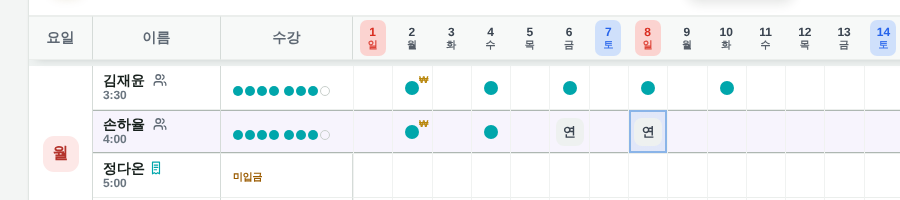
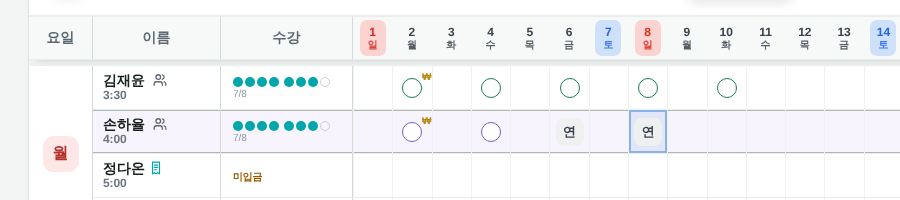
v0.111.7 수납 안내·수강생대장에서도 형제는 형제 합계로 보이게
Claude-Session: https://claude.ai/code/session_014d9zEvtY8svh7Lt1eQQH6C

diff --git a/design/attendance.html b/design/attendance.html
@@ -246,7 +246,7 @@ html.bwp section[aria-label="출석부"] [style*="dashed"]{border-color:#000!imp
     <sc-for list="{{sheetTabs}}" as="t" hint-placeholder-count="5">
       <button type="button" class="{{t.cls}}" draggable="true" onDragStart="{{t.dragStart}}" onDragOver="{{t.dragOver}}" onDragLeave="{{t.dragLeave}}" onDrop="{{t.drop}}" onDragEnd="{{t.dragEnd}}" onClick="{{t.pick}}" onContextMenu="{{t.ctx}}" aria-pressed="{{t.on}}" style="{{t.style}}"><span style="{{t.dot}}"></span>{{t.name}}</button>
     </sc-for>
-    <span style="margin-left: auto; flex: none; align-self: center; padding: 0 4px 0 16px; font-size: 11px; color: #8A949E; white-space: nowrap">v0.111.6</span>
+    <span style="margin-left: auto; flex: none; align-self: center; padding: 0 4px 0 16px; font-size: 11px; color: #8A949E; white-space: nowrap">v0.111.7</span>
   </nav>
   <sc-if value="{{th.open}}" hint-placeholder-val="{{ false }}">
     <div class="noprint" onMouseDown="{{th.close}}" style="position: fixed; inset: 0; z-index: 70; background: rgba(23, 32, 28, 0.28)"></div>
@@ -3902,8 +3902,9 @@ class Component extends DCLogic {
         const pool0 = sm ? null : this.sibPool(nm, calcOf(mm), baseAll);
         const dueNow = !sm && s0.dbStatus !== 'rest' && s0.dbStatus !== 'out' && (pool0 ? pool0.due && (this.sibGroups().find(g => g.indexOf(nm) >= 0) || [nm])[0] === nm : ((x.paid && x.used >= x.T && !qn) || (!x.paid && !(x.newReg && x.used === 0))));
         tks[nm] = { due: dueNow, stKind: sm && stx ? stx.kind : '', stDate: sm && stx ? String(stx.date || '') : '', stAt: sm && stx ? (stx.at || 0) : 0, cyc: String(x.payDate == null ? '' : x.payDate), teacher: s0.teacher || '', days: baseAll.filter(z => (z.sid || z.id) === (s0.sid || s0.id)).map(z => z.g), left: x.paid ? Math.max(0, x.T - x.used) + x.queue.reduce((n, c) => n + c, 0) : 0, n: !x.paid && !(x.newReg && x.used === 0) ? x.used : 0, diffLeft: Math.max(0, (x.diffDue || 0) - (x.diffPaid || 0)), unit: (s0.reg != null && this.unitOn(s0, tdy)) || (proT ? 62500 : 40000), pro: proT, rid: s0.id, sm: sm, text: doneOut ? '수업완료' : text, line: doneOut ? '수업완료' : v.subParts.map(p => p.t).join('') + (v.lateLine ? ' · ' + v.lateLine : ''),
-          dotLines: v.dotLines.map(l => ({ groups: l.groups.map(g => ({ dots: g.dots.map(d => ({ style: d.style, bw: d.bw || '' })) })) })),
-          subParts: doneOut ? [{ t: '수업완료', style: 'color: #007E82; font-weight: 600' }] : v.subParts, lateLine: v.lateLine, queueTxt: v.queueTxt };
+          dotLines: (pool0 ? pool0.lines : v.dotLines).map(l => ({ groups: l.groups.map(g => ({ dots: g.dots.map(d => ({ style: d.style, bw: d.bw || '' })) })) })),
+          // 형제 묶음 원생은 수납 안내·수강생대장에도 형제 합계 동그라미 + '5/8'
+          subParts: pool0 ? [{ t: Math.min(pool0.fill, pool0.cap) + '/' + pool0.cap, style: 'color: #8A949E' }] : doneOut ? [{ t: '수업완료', style: 'color: #007E82; font-weight: 600' }] : v.subParts, lateLine: pool0 ? '' : v.lateLine, queueTxt: pool0 ? '' : v.queueTxt };
       });
       const js = JSON.stringify(tks);
       if (js !== this._tkSnap) { this._tkSnap = js; localStorage.setItem('academy.tickets', js); }

diff --git a/design/src/attendance.dc.html b/design/src/attendance.dc.html
@@ -240,7 +240,7 @@ html.bwp section[aria-label="출석부"] [style*="dashed"]{border-color:#000!imp
     <sc-for list="{{sheetTabs}}" as="t" hint-placeholder-count="5">
       <button type="button" class="{{t.cls}}" draggable="true" onDragStart="{{t.dragStart}}" onDragOver="{{t.dragOver}}" onDragLeave="{{t.dragLeave}}" onDrop="{{t.drop}}" onDragEnd="{{t.dragEnd}}" onClick="{{t.pick}}" onContextMenu="{{t.ctx}}" aria-pressed="{{t.on}}" style="{{t.style}}"><span style="{{t.dot}}"></span>{{t.name}}</button>
     </sc-for>
-    <span style="margin-left: auto; flex: none; align-self: center; padding: 0 4px 0 16px; font-size: 11px; color: #8A949E; white-space: nowrap">v0.111.6</span>
+    <span style="margin-left: auto; flex: none; align-self: center; padding: 0 4px 0 16px; font-size: 11px; color: #8A949E; white-space: nowrap">v0.111.7</span>
   </nav>
   <sc-if value="{{th.open}}" hint-placeholder-val="{{ false }}">
     <div class="noprint" onMouseDown="{{th.close}}" style="position: fixed; inset: 0; z-index: 70; background: rgba(23, 32, 28, 0.28)"></div>
@@ -3894,8 +3894,9 @@ class Component extends DCLogic {
         const pool0 = sm ? null : this.sibPool(nm, calcOf(mm), baseAll);
         const dueNow = !sm && s0.dbStatus !== 'rest' && s0.dbStatus !== 'out' && (pool0 ? pool0.due && (this.sibGroups().find(g => g.indexOf(nm) >= 0) || [nm])[0] === nm : ((x.paid && x.used >= x.T && !qn) || (!x.paid && !(x.newReg && x.used === 0))));
         tks[nm] = { due: dueNow, stKind: sm && stx ? stx.kind : '', stDate: sm && stx ? String(stx.date || '') : '', stAt: sm && stx ? (stx.at || 0) : 0, cyc: String(x.payDate == null ? '' : x.payDate), teacher: s0.teacher || '', days: baseAll.filter(z => (z.sid || z.id) === (s0.sid || s0.id)).map(z => z.g), left: x.paid ? Math.max(0, x.T - x.used) + x.queue.reduce((n, c) => n + c, 0) : 0, n: !x.paid && !(x.newReg && x.used === 0) ? x.used : 0, diffLeft: Math.max(0, (x.diffDue || 0) - (x.diffPaid || 0)), unit: (s0.reg != null && this.unitOn(s0, tdy)) || (proT ? 62500 : 40000), pro: proT, rid: s0.id, sm: sm, text: doneOut ? '수업완료' : text, line: doneOut ? '수업완료' : v.subParts.map(p => p.t).join('') + (v.lateLine ? ' · ' + v.lateLine : ''),
-          dotLines: v.dotLines.map(l => ({ groups: l.groups.map(g => ({ dots: g.dots.map(d => ({ style: d.style, bw: d.bw || '' })) })) })),
-          subParts: doneOut ? [{ t: '수업완료', style: 'color: #007E82; font-weight: 600' }] : v.subParts, lateLine: v.lateLine, queueTxt: v.queueTxt };
+          dotLines: (pool0 ? pool0.lines : v.dotLines).map(l => ({ groups: l.groups.map(g => ({ dots: g.dots.map(d => ({ style: d.style, bw: d.bw || '' })) })) })),
+          // 형제 묶음 원생은 수납 안내·수강생대장에도 형제 합계 동그라미 + '5/8'
+          subParts: pool0 ? [{ t: Math.min(pool0.fill, pool0.cap) + '/' + pool0.cap, style: 'color: #8A949E' }] : doneOut ? [{ t: '수업완료', style: 'color: #007E82; font-weight: 600' }] : v.subParts, lateLine: pool0 ? '' : v.lateLine, queueTxt: pool0 ? '' : v.queueTxt };
       });
       const js = JSON.stringify(tks);
       if (js !== this._tkSnap) { this._tkSnap = js; localStorage.setItem('academy.tickets', js); }

diff --git a/design/src/students.dc.html b/design/src/students.dc.html
@@ -169,7 +169,7 @@ html.bwp .printonly .pcell,html.bwp .printonly .phead{border-color:#000!importan
     </div>
   </main>
 
-  <div style="display: flex; justify-content: flex-end; padding: 8px 16px; border-top: 1px solid #DDE2DF; background: #FFFFFF; font-size: 11px; color: #8A949E">v0.111.6</div>
+  <div style="display: flex; justify-content: flex-end; padding: 8px 16px; border-top: 1px solid #DDE2DF; background: #FFFFFF; font-size: 11px; color: #8A949E">v0.111.7</div>
   <sc-if value="{{colsCfg.isOpen}}" hint-placeholder-val="{{ false }}">
     <div onMouseDown="{{colsCfg.close}}" style="position: fixed; inset: 0; z-index: 40; background: rgba(23, 32, 28, 0.32)"></div>
     <div role="dialog" aria-label="설정" onKeyDown="{{colsCfg.key}}" tabIndex="-1" id="cfgDlg" style="outline: none; position: fixed; left: 50%; top: 50%; transform: translate(-50%, -50%); z-index: 41; width: 940px; max-width: calc(100vw - 48px); max-height: calc(100vh - 48px); box-sizing: border-box; display: flex; flex-direction: column; background: #F6F8F7; border: 1px solid #DDE2DF; border-radius: 26px; box-shadow: 0 30px 80px rgba(23, 32, 28, 0.28); overflow: hidden">

diff --git a/design/students.html b/design/students.html
@@ -172,7 +172,7 @@ html.bwp .printonly .pcell,html.bwp .printonly .phead{border-color:#000!importan
     </div>
   </main>
 
-  <div style="display: flex; justify-content: flex-end; padding: 8px 16px; border-top: 1px solid #DDE2DF; background: #FFFFFF; font-size: 11px; color: #8A949E">v0.111.6</div>
+  <div style="display: flex; justify-content: flex-end; padding: 8px 16px; border-top: 1px solid #DDE2DF; background: #FFFFFF; font-size: 11px; color: #8A949E">v0.111.7</div>
   <sc-if value="{{colsCfg.isOpen}}" hint-placeholder-val="{{ false }}">
     <div onMouseDown="{{colsCfg.close}}" style="position: fixed; inset: 0; z-index: 40; background: rgba(23, 32, 28, 0.32)"></div>
     <div role="dialog" aria-label="설정" onKeyDown="{{colsCfg.key}}" tabIndex="-1" id="cfgDlg" style="outline: none; position: fixed; left: 50%; top: 50%; transform: translate(-50%, -50%); z-index: 41; width: 940px; max-width: calc(100vw - 48px); max-height: calc(100vh - 48px); box-sizing: border-box; display: flex; flex-direction: column; background: #F6F8F7; border: 1px solid #DDE2DF; border-radius: 26px; box-shadow: 0 30px 80px rgba(23, 32, 28, 0.28); overflow: hidden">

diff --git a/design/settings.html b/design/settings.html
@@ -304,7 +304,7 @@ html.bwp .printonly .pcell{border-color:#000!important}
     </div>
   </main>
 
-  <div style="display: flex; justify-content: flex-end; padding: 8px 16px; border-top: 1px solid #DDE2DF; background: #FFFFFF; font-size: 11px; color: #8A949E">v0.111.6</div>
+  <div style="display: flex; justify-content: flex-end; padding: 8px 16px; border-top: 1px solid #DDE2DF; background: #FFFFFF; font-size: 11px; color: #8A949E">v0.111.7</div>
 
   <sc-if value="{{ed.open}}" hint-placeholder-val="{{ false }}">
     <div class="noprint" onMouseDown="{{ed.close}}" style="position: fixed; inset: 0; z-index: 44; background: rgba(23, 32, 28, 0.32)"></div>

diff --git a/design/src/settings.dc.html b/design/src/settings.dc.html
@@ -301,7 +301,7 @@ html.bwp .printonly .pcell{border-color:#000!important}
     </div>
   </main>
 
-  <div style="display: flex; justify-content: flex-end; padding: 8px 16px; border-top: 1px solid #DDE2DF; background: #FFFFFF; font-size: 11px; color: #8A949E">v0.111.6</div>
+  <div style="display: flex; justify-content: flex-end; padding: 8px 16px; border-top: 1px solid #DDE2DF; background: #FFFFFF; font-size: 11px; color: #8A949E">v0.111.7</div>
 
   <sc-if value="{{ed.open}}" hint-placeholder-val="{{ false }}">
     <div class="noprint" onMouseDown="{{ed.close}}" style="position: fixed; inset: 0; z-index: 44; background: rgba(23, 32, 28, 0.32)"></div>

diff --git a/design/money.html b/design/money.html
@@ -131,7 +131,7 @@ html.bwp .printonly .pcell{border-color:#000!important}
         </div>
       </sc-if>
       </span>
-      <span style="font-size: 11px; color: #8A949E; padding-left: 6px">v0.111.6</span>
+      <span style="font-size: 11px; color: #8A949E; padding-left: 6px">v0.111.7</span>
     </div>
   </main>
 

diff --git a/design/notice.html b/design/notice.html
@@ -111,7 +111,7 @@ html.bwp .printonly .pcell{border-color:#000!important}
         </div>
       </sc-if>
       </span>
-      <span style="font-size: 11px; color: #8A949E; padding-left: 6px">v0.111.6</span>
+      <span style="font-size: 11px; color: #8A949E; padding-left: 6px">v0.111.7</span>
     </div>
   </main>
 

diff --git a/design/src/money.dc.html b/design/src/money.dc.html
@@ -127,7 +127,7 @@ html.bwp .printonly .pcell{border-color:#000!important}
         </div>
       </sc-if>
       </span>
-      <span style="font-size: 11px; color: #8A949E; padding-left: 6px">v0.111.6</span>
+      <span style="font-size: 11px; color: #8A949E; padding-left: 6px">v0.111.7</span>
     </div>
   </main>
 

diff --git a/design/src/notice.dc.html b/design/src/notice.dc.html
@@ -108,7 +108,7 @@ html.bwp .printonly .pcell{border-color:#000!important}
         </div>
       </sc-if>
       </span>
-      <span style="font-size: 11px; color: #8A949E; padding-left: 6px">v0.111.6</span>
+      <span style="font-size: 11px; color: #8A949E; padding-left: 6px">v0.111.7</span>
     </div>
   </main>
 

diff --git a/CLAUDE.md b/CLAUDE.md
@@ -8,7 +8,7 @@
 - **시험**: 글자·색·간격 같은 작은 수정은 시험 없이 바로 올린다. 계산·저장·입력 동작이 바뀌는 수정만 Playwright로 바꾼 부분을 짧게 시험(오프라인: db.js·supabase-js·xlsx 등은 빈 파일로 막고 file:// 로 열기).
 - **토큰 아끼기**: 답은 짧게(바뀐 버전 + 바뀐 내용 몇 줄). 파일은 통째로 읽지 말고 grep으로 필요한 줄만. 원인 찾기가 길어지면 원장님께 먼저 상황을 묻는다.
 - 원장님이 요청을 여러 개 모아 주시면 한 번에 고치고 한 번만 올린다.
-- 버전: 프로그램 전체 하나, 모든 페이지에 표시. 작은 수정은 끝자리, 기능 추가는 가운데 자리. **현재 `v0.111.6`**. db.js를 고치면 네 페이지 head의 `db.js?v=` 숫자도 올린다(GitHub 페이지 캐시 때문).
+- 버전: 프로그램 전체 하나, 모든 페이지에 표시. 작은 수정은 끝자리, 기능 추가는 가운데 자리. **현재 `v0.111.7`**. db.js를 고치면 네 페이지 head의 `db.js?v=` 숫자도 올린다(GitHub 페이지 캐시 때문).
 - 템플릿 `sc-for`는 글자·숫자 목록을 못 그림(undefined) → 항목을 {t} 객체로 감싼다. `<table>` 안에 sc-for를 넣으면 브라우저가 밖으로 빼 버리므로 표는 div(display: table/table-row/table-cell)로 만든다.
 - 페이지 runtime의 `setState(p)`는 바로 다시 그리고 **두 번째 인자(콜백)를 부르지 않는다** → 뒤에 할 일은 setState 다음 줄에 쓴다.
 - 커밋 메시지 끝에 정해진 Co-Authored-By/Claude-Session 줄을 붙인다(시스템 안내대로).
@@ -35,7 +35,7 @@
 - 시간은 12시간 표기, 오전·오후 글자 없음. 학원은 오후 1시~밤 10시 → **1~11시는 오후, 12시는 낮 12시**.
 - '적용 날짜'는 기본값 오늘.
 - 용어: 휴원에서 돌아오면 **복귀**, 퇴원에서 돌아오면 **재등록**(데이터 kind는 둘 다 'back'). 재등록: 미납·남은 수업이 없으면(수업완료) 고르기 없이 바로 '새로 시작'(재등록 날짜부터 신규처럼 수강권 처음부터, 상태 기록 ticket='NEW', 계산 `FRESH`, 지난 출석부 기록은 그대로). 미납이나 남은 수업이 있으면 창에서 '지난 수강 이어서'(기본, '이어서 계산: 미납 N회 · 남은 수업 N회' 표시) / '새로 시작'(남은 미납 있으면 빨간 안내) 고름 — 연락 끊겨 퇴원 처리했다가 곧 돌아온 원생용. 남은 수업 = `_remain`(출석부) / tickets.left(수강생대장). 수강생대장: '이어서'는 퇴원 탭 → 재원 탭으로 옮겨감, '새로 시작'은 재원 탭에 새 줄 + 퇴원 탭에 그 전 퇴원 기간 줄이 그대로 남음(DB 원생은 하나, 화면에만 `ghost` 줄 — 퇴원 날짜·사유·그때 수강, 관리는 '기록'만). 기록에 '새로 시작'/'지난 수강 이어서' 남음. 버튼·창·기록·알림 모두 이 말로. 출석부는 복귀·재등록한 달 동안 이름 옆 청록 배지.
-- **형제**: 'academy.siblings' [[이름,…]] / app_settings 'siblings'(원장님만). 수강생대장 등록·수정 창 기본 정보 카드 주소 아래 한 줄 '형제'(칩 ×·'+ 형제 추가' 고르기·형(언니) 버튼, 바로 저장). 출석부·수강생대장 이름 옆 사람 둘 아이콘(Lucide users, 마우스 '형제: 이름'). 출석부 새 수납 창에 '형제도 같이 수납'(체크+금액, 기본 = 그 형제 수강료 합계) → 같은 날짜로 형제 수납 기록 + 형제 줄 그날 칸 ₩, 기록끼리 grp 같음(한 명 수납을 지우면(수납 취소·칸 지우기) 같은 grp 형제 수납 기록·형제 칸 ₩도 같이 지움, `grpDrop`·`dropPayRecs`) → 수입·지출 비고 '형제 합계 N (이름 · 이름)'(`grpTxt`). **형제 합계 수강**(`sibPool`): 형제 묶음 원생은 수강 칸 아래에 형제 합계 동그라미 줄(아이콘 없음) — **이어지는 묶음 줄**: 시작 = 처음 '형제도 같이 수납'한 결제가 맡는 수강권의 **레슨시작일**(아이마다 자기 결제를 앞에서부터 이어 붙여 그 결제가 시작되는 수업, 그중 가장 이른 날; 수업이 아직 없으면 결제일), 그 결제부터 형제 결제(같이 낸 건 한 묶음, 따로 낸 건 따로)를 날짜순으로 이어 붙여 묶음마다 회차 합만큼, 형제 출석·결석을 날짜순으로 채움(결제일과 상관없이 앞 묶음이 다 차면 다음 묶음; 늦게 내면 그 사이는 미납 빨간 점선, 미리 내면 다음 묶음 대기). 보이는 건 다음 수업이 들어갈 묶음(다 썼으면 마지막 묶음 + 넘친 미납) — 한 줄로 날짜순 동그라미(4개씩, 한 줄 8개, 넘친 미납은 빨간 점선), 그 아래 작은 회색 '쓴 회차/묶음 회차'(예 5/8), 색은 출석 청록·결석 빨강, 마우스 '형제 합계 F/C회 · 다음 묶음 N회 대기 (M/D부터 이어서, 이름 N · 이름 N)'. 시작 날짜를 바꾸는 화면은 아직 없음. 형제 묶음 원생은 수강 칸에 개인 수강(동그라미·레슨시작일 글)은 빼고 형제 합계 줄만, 날짜 칸은 원래 동그라미 모양 그대로 회차 숫자만 뺌(출석 빈 동그라미 테두리·결석 빨강 꽉 찬 동그라미, 개인 미납 점선 없음), 수강 칸 붉은 바탕은 형제 합계가 넘쳤을 때만(over). 수납 안내는 낸 묶음을 다 썼을 때 형(언니)만 due. 형(언니) = 'academy.siblings' 묶음 맨 앞, 그 한 줄의 '형(언니)' 버튼으로 고름(`sibFirst`).
+- **형제**: 'academy.siblings' [[이름,…]] / app_settings 'siblings'(원장님만). 수강생대장 등록·수정 창 기본 정보 카드 주소 아래 한 줄 '형제'(칩 ×·'+ 형제 추가' 고르기·형(언니) 버튼, 바로 저장). 출석부·수강생대장 이름 옆 사람 둘 아이콘(Lucide users, 마우스 '형제: 이름'). 출석부 새 수납 창에 '형제도 같이 수납'(체크+금액, 기본 = 그 형제 수강료 합계) → 같은 날짜로 형제 수납 기록 + 형제 줄 그날 칸 ₩, 기록끼리 grp 같음(한 명 수납을 지우면(수납 취소·칸 지우기) 같은 grp 형제 수납 기록·형제 칸 ₩도 같이 지움, `grpDrop`·`dropPayRecs`) → 수입·지출 비고 '형제 합계 N (이름 · 이름)'(`grpTxt`). **형제 합계 수강**(`sibPool`): 형제 묶음 원생은 수강 칸 아래에 형제 합계 동그라미 줄(아이콘 없음) — **이어지는 묶음 줄**: 시작 = 처음 '형제도 같이 수납'한 결제가 맡는 수강권의 **레슨시작일**(아이마다 자기 결제를 앞에서부터 이어 붙여 그 결제가 시작되는 수업, 그중 가장 이른 날; 수업이 아직 없으면 결제일), 그 결제부터 형제 결제(같이 낸 건 한 묶음, 따로 낸 건 따로)를 날짜순으로 이어 붙여 묶음마다 회차 합만큼, 형제 출석·결석을 날짜순으로 채움(결제일과 상관없이 앞 묶음이 다 차면 다음 묶음; 늦게 내면 그 사이는 미납 빨간 점선, 미리 내면 다음 묶음 대기). 보이는 건 다음 수업이 들어갈 묶음(다 썼으면 마지막 묶음 + 넘친 미납) — 한 줄로 날짜순 동그라미(4개씩, 한 줄 8개, 넘친 미납은 빨간 점선), 그 아래 작은 회색 '쓴 회차/묶음 회차'(예 5/8), 색은 출석 청록·결석 빨강, 마우스 '형제 합계 F/C회 · 다음 묶음 N회 대기 (M/D부터 이어서, 이름 N · 이름 N)'. 시작 날짜를 바꾸는 화면은 아직 없음. 형제 묶음 원생은 수강 칸에 개인 수강(동그라미·레슨시작일 글)은 빼고 형제 합계 줄만, 날짜 칸은 원래 동그라미 모양 그대로 회차 숫자만 뺌(출석 빈 동그라미 테두리·결석 빨강 꽉 찬 동그라미, 개인 미납 점선 없음), 수강 칸 붉은 바탕은 형제 합계가 넘쳤을 때만(over). 수납 안내는 낸 묶음을 다 썼을 때 형(언니)만 due. 'academy.tickets'의 동그라미·글도 형제 합계로 써서 수납 안내·수강생대장도 형제 합계 + '5/8'로 보임. 형(언니) = 'academy.siblings' 묶음 맨 앞, 그 한 줄의 '형(언니)' 버튼으로 고름(`sibFirst`).
 - 용어: 원생이 배우는 과목 = 수강과목, 강사가 가르치는 과목 = 교습과목. 화면에 '파트'라는 말은 쓰지 않는다(수강생대장 칸 이름도 '교습과목').
 
 ## 페이지 구성
